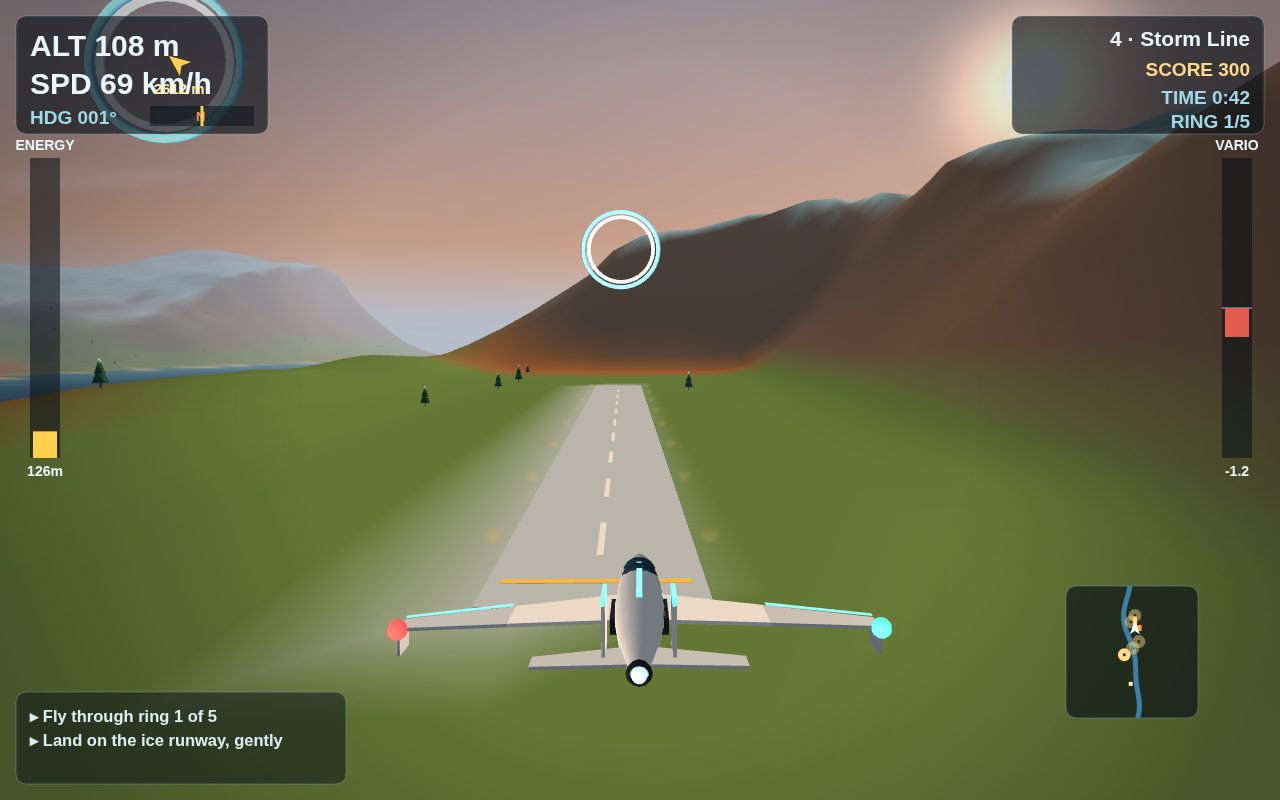
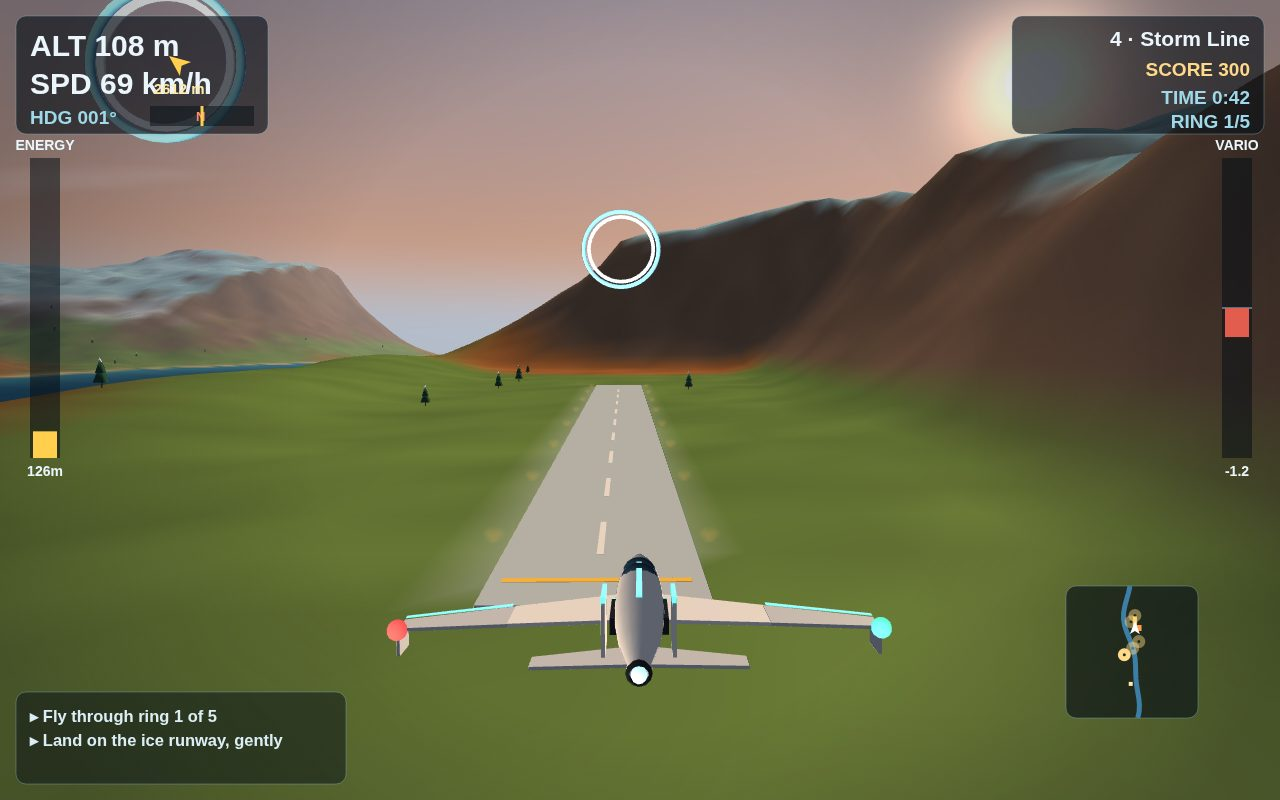
Sharper scenery: farther fog, denser terrain mesh, ground grain
Fog pushed from 420-5600 to 950-8200 so distant hills keep their
colour, terrain mesh up from 240 to 320 segments, a walking-scale
grain in the colour ramp so mid-distance ground has texture, a
crisper snowline, and punchier sun-versus-ambient contrast.

diff --git a/game/src/renderWorld.js b/game/src/renderWorld.js
@@ -13,8 +13,8 @@ import {
   mat4Perspective, mat4Multiply, mat4View, mat4Model, mat4Identity,
 } from "./glMesh.js";
 
-const FOG_NEAR = 420;
-const FOG_FAR = 5600;
+const FOG_NEAR = 950;
+const FOG_FAR = 8200;
 
 const LIT_VERT = `
 attribute vec3 aPos;
@@ -319,7 +319,7 @@ export function createRenderer(glCanvas, fxCanvas) {
   }
 
   // ---------- Static scene, built once ----------
-  const terrainMesh = uploadGeometry(buildTerrainGeometry(terrainHeight, terrainColorAt, WORLD_HALF, 240));
+  const terrainMesh = uploadGeometry(buildTerrainGeometry(terrainHeight, terrainColorAt, WORLD_HALF, 320));
 
   const forest = new MeshBuilder();
   {
@@ -683,9 +683,9 @@ export function createRenderer(glCanvas, fxCanvas) {
     const sunI = palette.sun;
     const fog = rgb255(palette.fog);
     const sunTint = [1.0, 0.72 + 0.24 * sunDir[1], 0.45 + 0.4 * sunDir[1]];
-    const sunColor = [sunTint[0] * (0.2 + 1.0 * sunI), sunTint[1] * (0.2 + 1.0 * sunI), sunTint[2] * (0.2 + 1.0 * sunI)];
+    const sunColor = [sunTint[0] * (0.25 + 1.15 * sunI), sunTint[1] * (0.25 + 1.15 * sunI), sunTint[2] * (0.25 + 1.15 * sunI)];
     const ambient = [
-      0.17 + 0.4 * sunI, 0.2 + 0.37 * sunI, 0.3 + 0.27 * sunI,
+      0.13 + 0.32 * sunI, 0.16 + 0.3 * sunI, 0.26 + 0.22 * sunI,
     ];
 
     gl.clearColor(fog[0], fog[1], fog[2], 1);

diff --git a/game/src/terrainSvarra.js b/game/src/terrainSvarra.js
@@ -173,12 +173,15 @@ export function terrainColorAt(x, z, h, slope) {
   col = mixCol(C.shore, col, blendStep(2.2, 9, h));
   // Climbing ground fades into snow along a noisy snowline.
   const snowLine = 150 + smoothNoise(x + 5000, z - 3000, 180) * 60;
-  col = mixCol(col, C.snow, blendStep(snowLine - 45, snowLine + 25, h));
+  col = mixCol(col, C.snow, blendStep(snowLine - 30, snowLine + 15, h));
   // The high plateau is old ice where it lies flat.
   col = mixCol(col, C.ice, blendStep(238, 268, h));
   // Steep faces are bare warm rock, whatever their height.
   col = mixCol(col, C.rock, blendStep(0.42, 0.72, slope));
-  return col;
+  // Fine grain at walking scale, so mid-distance ground carries texture
+  // instead of reading as a smooth, blurry wash.
+  const grain = 0.92 + smoothNoise(x + 31000, z - 17000, 26) * 0.16;
+  return [col[0] * grain, col[1] * grain, col[2] * grain];
 }
 
 export const SURFACE_COLOURS = {
